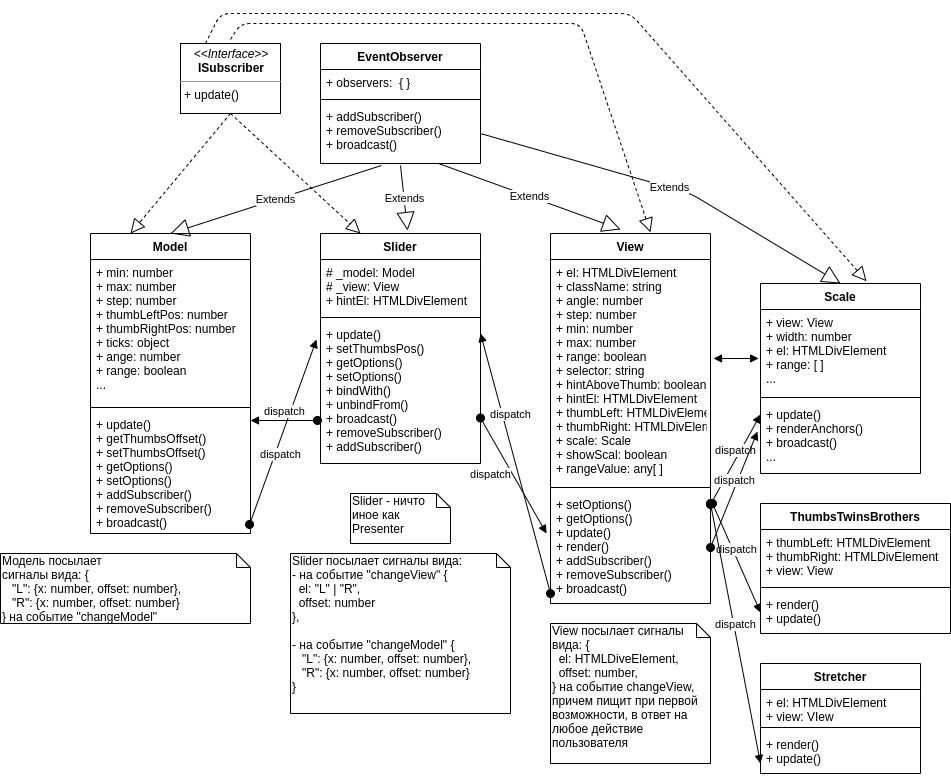
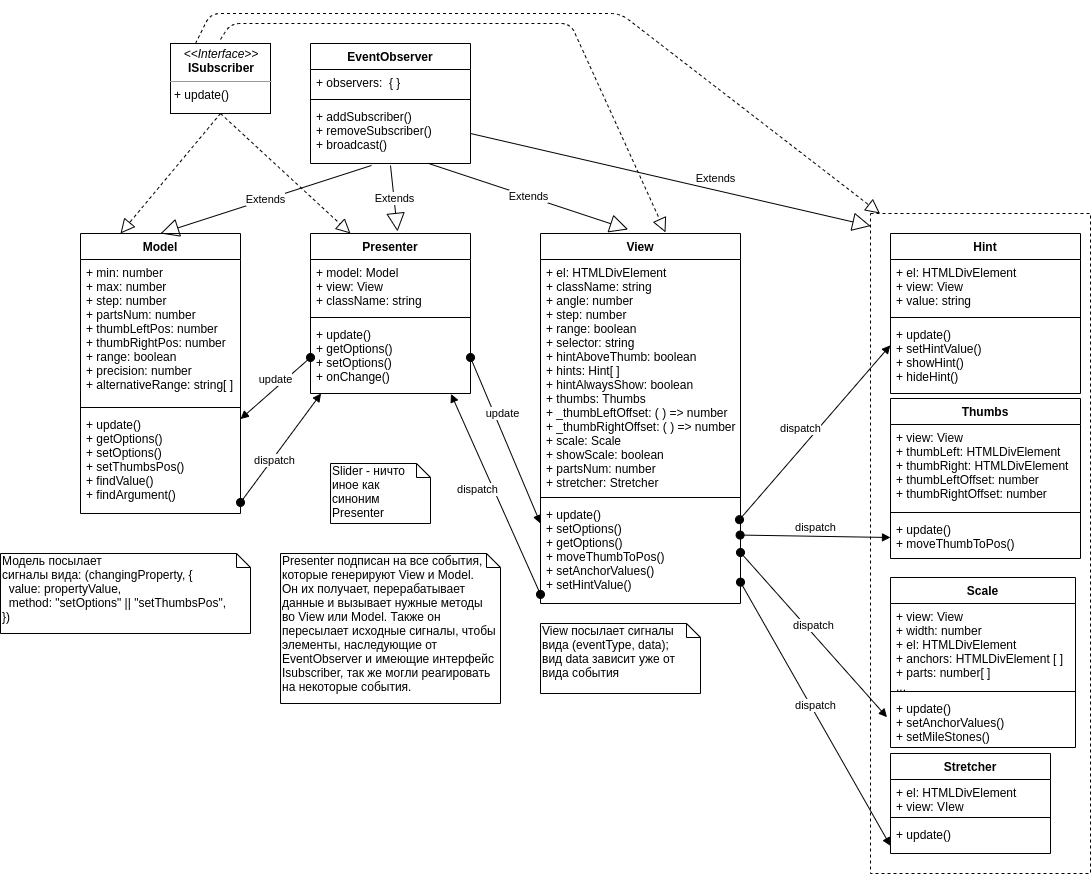
Переделал uml-диаграмму

Changed region(s): [[0.0, 0.0, 1.0, 1.0], [0.5489, 0.1853, 0.7319, 0.2471]]

diff --git a/src/assets/blocks/slider/components/view/view.ts b/src/assets/blocks/slider/components/view/view.ts
@@ -45,7 +45,7 @@ export default class View extends EventObserver implements ISubscriber {
     this.init();
   }
 
-  init(): this {
+  private init(): this {
     const wrapper = document.querySelector(this.selector) as HTMLDivElement;
     wrapper.append(this.el);
 
@@ -91,7 +91,7 @@ export default class View extends EventObserver implements ISubscriber {
       .forEach((prop) => expectant[prop] = options[prop]);
 
     Object.entries(expectant).forEach(([prop, value]) => {
-      this._validateOptions(prop, value, expectant);
+      this.validateOptions(prop, value, expectant);
     });
 
     Object.assign(this, expectant);
@@ -178,19 +178,19 @@ export default class View extends EventObserver implements ISubscriber {
     hint.setHintValue(value);
   }
 
-  handleAnchorClick(offset: number): void {
-    let closestThumb = this._findClosestThumb(offset);
+  private handleAnchorClick(offset: number): void {
+    let closestThumb = this.findClosestThumb(offset);
     this.moveThumbToPos(closestThumb, offset);
   }
 
-  handleThumbMousedown(thumb: HTMLDivElement) {
+  private handleThumbMousedown(thumb: HTMLDivElement) {
     if (!this.hintAboveThumb) return;
 
     const hint = (thumb === this.thumbs.thumbLeft) ? this.hints[0] : this.hints[1];
     hint.showHint();
   }
 
-  handleThumbMouseup(thumb: HTMLElement) {
+  private handleThumbMouseup(thumb: HTMLElement) {
     const hint = (thumb === this.thumbs.thumbLeft) ? this.hints[0] : this.hints[1];
 
     if (!this.hintAlwaysShow) {
@@ -198,14 +198,14 @@ export default class View extends EventObserver implements ISubscriber {
     }
   }
 
-  handleThumbMousemove(thumb: HTMLElement) {
+  private handleThumbMousemove(thumb: HTMLElement) {
     if (!this.hintAboveThumb) return;
 
     const hint = (thumb === this.thumbs.thumbLeft) ? this.hints[0] : this.hints[1];
     hint.showHint();
   }
 
-  handleSliderClick(e: MouseEvent) {
+  private handleSliderClick(e: MouseEvent) {
     const target = <HTMLElement>e.target;
     const slider = this.el;
 
@@ -223,7 +223,7 @@ export default class View extends EventObserver implements ISubscriber {
 
     let newLeft = newLeftX * cosA + newLeftY * sinA;
     let offset = newLeft / this.scale.width;
-    let closestThumb = this._findClosestThumb(offset);
+    let closestThumb = this.findClosestThumb(offset);
 
     newLeft = Math.max(newLeftX * cosA + newLeftY * sinA);
     newLeft = Math.min(newLeft, this.scale.width + closestThumb.offsetWidth / 2);
@@ -238,7 +238,7 @@ export default class View extends EventObserver implements ISubscriber {
     this.moveThumbToPos(closestThumb, offset);
   }
 
-  private _validateOptions(key: string, value: any, expectant: Obj) {
+  private validateOptions(key: string, value: any, expectant: Obj) {
     const validator: Obj = {
       step: (val: number) => {
         if (!isFinite(val)) {
@@ -269,7 +269,7 @@ export default class View extends EventObserver implements ISubscriber {
     return validator[key](value);
   }
 
-  private _findClosestThumb(offset: number) {
+  private findClosestThumb(offset: number) {
     const {thumbLeft, thumbRight} = this.thumbs;
 
     let closestThumb;

diff --git a/src/assets/blocks/main-page/main-page.ts b/src/assets/blocks/main-page/main-page.ts
@@ -13,7 +13,7 @@ let options1 = {
   max: 6,
   step: 1,
   thumbRightPos: 1,
-  selector: ".slider1",
+  selector: '.slider1',
   range: true,
   hintAboveThumb: true,
   hintAlwaysShow: true,
@@ -28,7 +28,7 @@ let options2 = {
   min: 100,
   max: 2000,
   step: 1,
-  selector: ".slider2",
+  selector: '.slider2',
   angle: 90,
   range: false,
   hintAboveThumb: true,
@@ -40,7 +40,7 @@ const example2 = document.querySelector('.example2') as HTMLDivElement;
 const palette2 = new SliderOptionsPalette(example2, slider2);
 
 let options3 = {
-  alternativeRange: ["Jan", "Feb", "March", "Apr", "May", "Jun", "Jul", "Aug", "Sep", "Oct", "Nov", "Dec"],
+  alternativeRange: ['Jan', 'Feb', 'March', 'Apr', 'May', 'Jun', 'Jul', 'Aug', 'Sep', 'Oct', 'Nov', 'Dec'],
   step: 1,
   selector: '.slider3',
   angle: 45,
@@ -57,7 +57,7 @@ let options4 = {
   max: 100,
   min: 0,
   step: 1,
-  selector: ".slider4",
+  selector: '.slider4',
   angle: 0,
   range: true,
   hintAboveThumb: true
@@ -82,7 +82,7 @@ let options5 = {
   max: 255,
   min: 0,
   step: 1,
-  selector: ".slider5",
+  selector: '.slider5',
   angle: 0,
   range: false,
   hintAboveThumb: true
@@ -98,14 +98,14 @@ slider5.onChange({el: letterA, callback: () => {
 
   // offset == 0 -> 200
   // offset == 1 -> 360 
-  let resStr = "hsl(" + (offset * 160 + 200) + ", 100%, 50%)";
+  let resStr = 'hsl(' + (offset * 160 + 200) + ', 100%, 50%)';
 
   // offset == 0 -> 0
   // offset == 1 -> 20 
   let resShadow = offset * 20;
 
   letterA.style.color = resStr;
-  letterA.style.textShadow = resShadow + "px 19px 7px grey";
+  letterA.style.textShadow = resShadow + 'px 19px 7px grey';
 }});
 
 
@@ -113,7 +113,7 @@ let options6 = {
   max: 1000,
   min: 0,
   step: 10,
-  selector: ".slider6",
+  selector: '.slider6',
   angle: 0,
   range: false,
   hintAboveThumb: true,
@@ -138,7 +138,7 @@ slider6.onChange({
     let offsetLeft = imgWidth * (resLeft % 5);
     let offsetTop = imgHeight * Math.floor(resLeft / 5);
 
-    birdImg.style.backgroundPositionX = -offsetLeft + "px";
-    birdImg.style.backgroundPositionY = -offsetTop + "px";
+    birdImg.style.backgroundPositionX = -offsetLeft + 'px';
+    birdImg.style.backgroundPositionY = -offsetTop + 'px';
   },
 })

diff --git a/src/assets/blocks/slider/components/view/components/scale.ts b/src/assets/blocks/slider/components/view/components/scale.ts
@@ -25,7 +25,7 @@ export default class Scale extends EventObserver {
     this.init();
   }
 
-  init() {
+  private init() {
     const propsToSubscribe = ['showScale', 'step', 'partsNum', 'angle'];
     propsToSubscribe.forEach(prop => this.view.addSubscriber(prop, this));
 
@@ -50,7 +50,7 @@ export default class Scale extends EventObserver {
     }
   }
 
-  render() {
+  private render() {
     this.el.className = this.view.el.className + '__scale';
     this.view.el.append(this.el);
 
@@ -109,7 +109,7 @@ export default class Scale extends EventObserver {
     this.broadcast('rerenderScale', this.anchors);
   }
 
-  handleMouseClick(e: MouseEvent) {
+  private handleMouseClick(e: MouseEvent) {
     const el = <HTMLDivElement>e.target;
     const index = this.anchors.indexOf(el);
     let offset = this.parts[index];
@@ -122,7 +122,7 @@ export default class Scale extends EventObserver {
     this.broadcast('anchorClick', offset);
   }
 
-  displayScale() {
+  private displayScale() {
     if (!this.view.showScale) {
       this.el.style.display = 'none';
     } else {
@@ -130,7 +130,7 @@ export default class Scale extends EventObserver {
     }
   }
 
-  rotateScale() {
+  private rotateScale() {
     const {angle} = this.view;
     const {sin, PI} = Math;
     let radAngle = angle * PI / 180;

diff --git a/src/assets/blocks/slider/components/view/components/hint.ts b/src/assets/blocks/slider/components/view/components/hint.ts
@@ -15,7 +15,7 @@ export default class Hint extends EventObserver{
     this.init(parentNode);
   }
 
-  init(parent: HTMLElement) {
+  private init(parent: HTMLElement) {
     this.el.className = `${this.view.className}__hint`;
     this.el.hidden = true;
 
@@ -36,11 +36,6 @@ export default class Hint extends EventObserver{
     }
   }
 
-  handleMousedown(e: Event) {
-    e.preventDefault();
-    e.stopPropagation();
-  }
-
   setHintValue(value: string) {
     this.value = value;
     if (!this.el.hidden) this.el.textContent = this.value;
@@ -56,7 +51,7 @@ export default class Hint extends EventObserver{
     this.el.hidden = true;
   }
 
-  rotateHint() {
+  private rotateHint() {
     const {angle} = this.view;
     const hint = this.el;
 
@@ -71,5 +66,10 @@ export default class Hint extends EventObserver{
       transformation += ` translateX(${-50 * (1 -  sin(2 * radAngle))}%)`;
       hint.style.transform = transformation;
     }
+  }
+
+  private handleMousedown(e: Event) {
+    e.preventDefault();
+    e.stopPropagation();
   }
 }

diff --git a/test/view-spec.ts b/test/view-spec.ts
@@ -109,7 +109,7 @@ describe(`Позволяет пользователю взаимодейство
       selector: '.divViewSpec', className: 'slider',
     };
     const view = new View(option);
-    view.setOptions({range: true}).init();
+    view.setOptions({range: true});
 
     const rightThumb = <HTMLDivElement>div.querySelector('[class*=right]');
     const scaleWidth = div.clientWidth - rightThumb.offsetWidth;
@@ -136,7 +136,7 @@ describe(`Позволяет пользователю взаимодейство
     };
 
     const view = new View(option);
-    view.setOptions({range: true}).init();
+    view.setOptions({range: true});
 
     const leftThumb = <HTMLDivElement>div.querySelector('[class*=left]');
     const rightThumb = <HTMLDivElement>div.querySelector('[class*=right]');

diff --git a/src/assets/blocks/slider/components/view/components/thumbs.ts b/src/assets/blocks/slider/components/view/components/thumbs.ts
@@ -18,7 +18,7 @@ export default class Thumbs extends EventObserver {
     this.render();
   }
 
-  render() {
+  private render() {
     const [thumbLeft, thumbRight] = new Array(2).fill(1).map(() => document.createElement('div'));
     Object.assign(this, {thumbLeft, thumbRight});
 
@@ -56,7 +56,7 @@ export default class Thumbs extends EventObserver {
     });
   }
 
-  handleThumbMousedown(e: MouseEvent) {
+  private handleThumbMousedown(e: MouseEvent) {
     e.preventDefault();
 
     const thumb = <HTMLElement>e.target;
@@ -150,7 +150,7 @@ export default class Thumbs extends EventObserver {
     }
   }
 
-  displayThumbRight() {
+  private displayThumbRight() {
     if (this.view.range) {
       this.view.el.append(this.thumbRight);
     } else {

diff --git a/src/assets/blocks/slider/components/view/components/stretcher.ts b/src/assets/blocks/slider/components/view/components/stretcher.ts
@@ -14,7 +14,7 @@ export default class Stretcher extends EventObserver {
     this.view.addSubscriber('range', this);
   }
 
-  render() {
+  private render() {
     this.el = document.createElement('div');
     this.el.className = `${this.view.className}__stretcher`;
     this.view.el.append(this.el);
@@ -30,6 +30,7 @@ export default class Stretcher extends EventObserver {
       this.el.style.right =
         this.view.el.clientWidth -
         parseFloat(getComputedStyle(this.view.thumbs.thumbRight).left) + 'px';
+
     } else {
       this.el.style.left = '0px';
       this.el.style.right =

diff --git a/src/assets/blocks/slider/components/presenter/presenter.ts b/src/assets/blocks/slider/components/presenter/presenter.ts
@@ -20,7 +20,7 @@ export default class Presenter extends EventObserver implements ISubscriber{
     this.init(options);
   }
 
-  init(options: Obj) {
+  private init(options: Obj) {
     const optionsCopy = Object.assign({}, options);
     this.model = new Model(options);
     const model = this.model;
@@ -173,6 +173,8 @@ export default class Presenter extends EventObserver implements ISubscriber{
     this.broadcast('changeSlider', 'onChangeInit');
     return elemSubscriber;
   }
+
+  
 
   private _scaleValues() {
     const {view, model} = this;

diff --git a/coverage/index.html b/coverage/index.html
@@ -80,7 +80,7 @@
             <div class='footer quiet pad2 space-top1 center small'>
                 Code coverage generated by
                 <a href="https://istanbul.js.org/" target="_blank">istanbul</a>
-                at Wed Dec 02 2020 09:56:49 GMT+0300 (Moscow Standard Time)
+                at Wed Dec 02 2020 13:33:26 GMT+0300 (Moscow Standard Time)
             </div>
         </div>
         <script src="prettify.js"></script>

diff --git a/README.md b/README.md
@@ -169,7 +169,7 @@
 ```js
 slider.setOptions({range: true, max: -100});
 ```
-### onChange({el: any, callback?: function})
+### onChange( {el: any, callback?: function} )
 Сам по себе бегунок бесполезен. Он должен быть связан с какими-либо данными и его перемещение должно вызывать какие-то дополнительные  полезные действия. К примеру, пользователь, двигая кругляш, меняет возможные значения срока ипотеки. Какая-то сторонняя функция высчитывает итоговую сумму (которая зависит от положения бегунка), которую он заплатит и отображает в каком-то поле. Таких элементов, привязанных к одному слайдеру, может быть сколько угодно. Данный метод позволяет привязать любой элемент к слайдеру. Параметры и примеры использования смотри ниже. |
 
 ### Параметры onChange
@@ -207,7 +207,7 @@ slider6.onChange({
     let imgWidth = 918 / 5;
     let imgHeight = 506 / 3;
 
-    // т.к. нам неинтересны абсолютные значения положения бегунка
+    // т.к. нам неинтересны абсолютные значения положения бегунка,
     // то мы будем использовать относительные
     let offset = slider6.getOptions()._thumbLeftOffset(); 
     
@@ -218,8 +218,8 @@ slider6.onChange({
     let offsetLeft = imgWidth * (resLeft % 5);
     let offsetTop = imgHeight * Math.floor(resLeft / 5);
 
-    birdImg.style.backgroundPositionX = -offsetLeft + "px";
-    birdImg.style.backgroundPositionY = -offsetTop + "px";
+    birdImg.style.backgroundPositionX = -offsetLeft + 'px';
+    birdImg.style.backgroundPositionY = -offsetTop + 'px';
   },
 })
 ```
